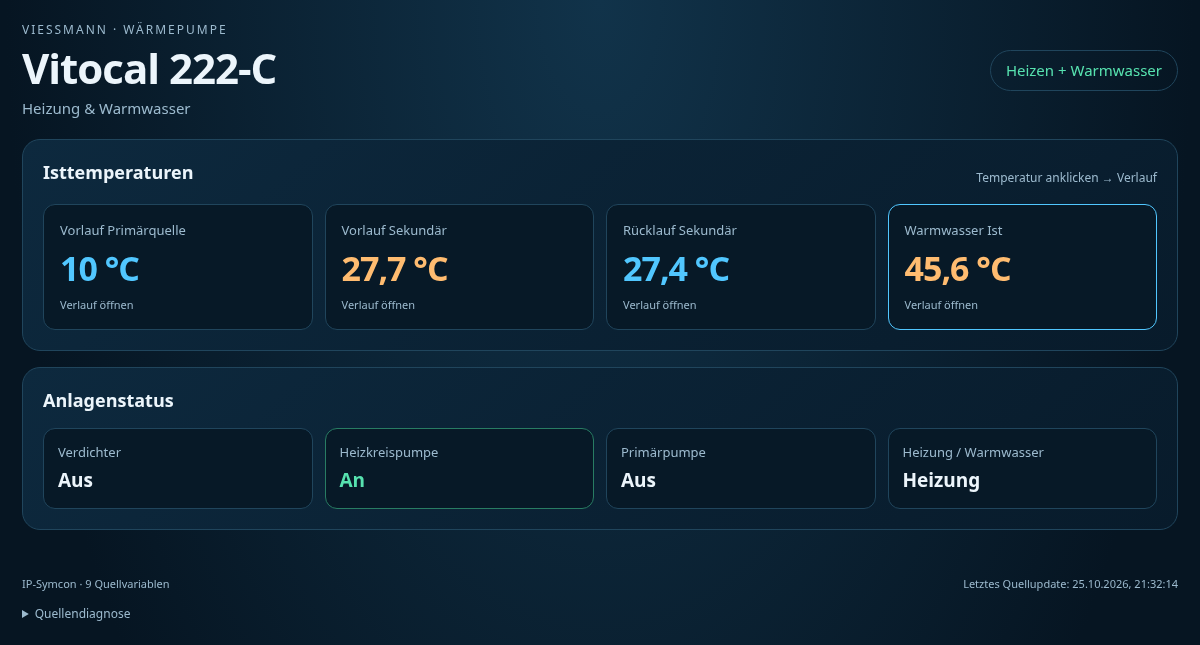
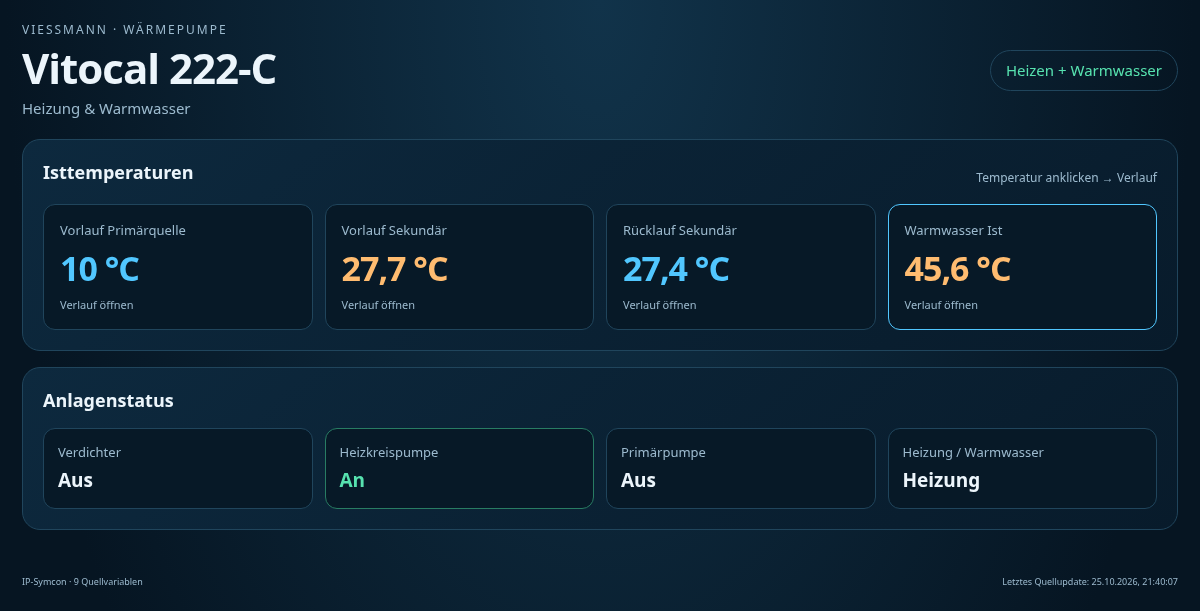
Remove tile source diagnostics and reduce footer text size

diff --git a/Vitocal222CTile/tile.html b/Vitocal222CTile/tile.html
@@ -1,7 +1,7 @@
 <!doctype html>
 <html lang="de"><head><meta charset="utf-8"><meta name="viewport" content="width=device-width, initial-scale=1"><title>Vitocal 222-C</title>
 <style>
-:root{color-scheme:dark;--bg:#061522;--panel:#0b2234;--line:#20455c;--text:#ecf5fb;--muted:#9cbace;--blue:#51c7ff;--warm:#ffbc70;--green:#57e2af}*{box-sizing:border-box}body{margin:0;min-height:100vh;background:radial-gradient(ellipse at top,#11334a,var(--bg) 70%);color:var(--text);font:15px/1.4 system-ui,sans-serif}main{max-width:1200px;padding:22px;margin:auto}header{display:flex;align-items:center;justify-content:space-between;gap:16px;margin-bottom:20px}h1{margin:0;font-size:clamp(25px,4vw,42px);letter-spacing:-1px}h2{font-size:18px;margin:0 0 15px}.eyebrow{font-size:12px;letter-spacing:2px;color:var(--muted)}.subtitle{color:var(--muted)}.badge{border:1px solid var(--line);border-radius:24px;padding:9px 15px;color:var(--green);max-width:45%;overflow-wrap:anywhere}.grid{display:grid;grid-template-columns:1fr 1fr;gap:16px}.panel{border:1px solid var(--line);background:linear-gradient(140deg,#0d293e,#081b2b);border-radius:18px;padding:20px;min-width:0}.wide{grid-column:1/-1}.reading{background:#071927;border:1px solid var(--line);border-radius:12px;padding:16px}.label{color:var(--muted);font-size:13px}.value{font-size:clamp(24px,4vw,38px);font-weight:600;letter-spacing:-1px;overflow-wrap:anywhere}.warm{color:var(--warm)}.cold{color:var(--blue)}.status-grid{display:grid;grid-template-columns:repeat(4,1fr);gap:12px}.status{background:#071927;border-radius:12px;padding:14px;border:1px solid var(--line)}.status strong{display:block;font-size:19px;margin-top:6px}.status[data-active="true"]{border-color:#287c63}.status[data-active="true"] strong{color:var(--green)}button{font:inherit;border-radius:9px;border:1px solid #376079;padding:10px 12px;background:#0d3047;color:var(--text);cursor:pointer;min-height:42px}button:disabled{opacity:.45;cursor:default}button:hover:enabled{border-color:var(--blue)}button:focus-visible,select:focus-visible,summary:focus-visible{outline:2px solid var(--blue);outline-offset:3px}.reason,.hint{font-size:12px;color:var(--muted);margin-top:10px}.feedback{font-size:13px;color:#ffd399;min-height:20px;margin:12px 0}footer{color:var(--muted);font-size:11px;margin-top:14px;display:flex;gap:10px;justify-content:space-between;flex-wrap:wrap}details{margin-top:15px;color:var(--muted);font-size:12px}summary{cursor:pointer}pre{white-space:pre-wrap;overflow-wrap:anywhere;max-height:220px;overflow:auto}.unavailable{color:#ffd399} @media(max-width:650px){main{padding:12px}.grid{grid-template-columns:1fr}.status-grid{grid-template-columns:1fr 1fr}.reading{padding:10px}.panel{padding:15px}.value{font-size:25px}.label{font-size:11px}.badge{font-size:12px}header{align-items:flex-start}}
+:root{color-scheme:dark;--bg:#061522;--panel:#0b2234;--line:#20455c;--text:#ecf5fb;--muted:#9cbace;--blue:#51c7ff;--warm:#ffbc70;--green:#57e2af}*{box-sizing:border-box}body{margin:0;min-height:100vh;background:radial-gradient(ellipse at top,#11334a,var(--bg) 70%);color:var(--text);font:15px/1.4 system-ui,sans-serif}main{max-width:1200px;padding:22px;margin:auto}header{display:flex;align-items:center;justify-content:space-between;gap:16px;margin-bottom:20px}h1{margin:0;font-size:clamp(25px,4vw,42px);letter-spacing:-1px}h2{font-size:18px;margin:0 0 15px}.eyebrow{font-size:12px;letter-spacing:2px;color:var(--muted)}.subtitle{color:var(--muted)}.badge{border:1px solid var(--line);border-radius:24px;padding:9px 15px;color:var(--green);max-width:45%;overflow-wrap:anywhere}.grid{display:grid;grid-template-columns:1fr 1fr;gap:16px}.panel{border:1px solid var(--line);background:linear-gradient(140deg,#0d293e,#081b2b);border-radius:18px;padding:20px;min-width:0}.wide{grid-column:1/-1}.reading{background:#071927;border:1px solid var(--line);border-radius:12px;padding:16px}.label{color:var(--muted);font-size:13px}.value{font-size:clamp(24px,4vw,38px);font-weight:600;letter-spacing:-1px;overflow-wrap:anywhere}.warm{color:var(--warm)}.cold{color:var(--blue)}.status-grid{display:grid;grid-template-columns:repeat(4,1fr);gap:12px}.status{background:#071927;border-radius:12px;padding:14px;border:1px solid var(--line)}.status strong{display:block;font-size:19px;margin-top:6px}.status[data-active="true"]{border-color:#287c63}.status[data-active="true"] strong{color:var(--green)}button{font:inherit;border-radius:9px;border:1px solid #376079;padding:10px 12px;background:#0d3047;color:var(--text);cursor:pointer;min-height:42px}button:disabled{opacity:.45;cursor:default}button:hover:enabled{border-color:var(--blue)}button:focus-visible,select:focus-visible,summary:focus-visible{outline:2px solid var(--blue);outline-offset:3px}.reason,.hint{font-size:12px;color:var(--muted);margin-top:10px}.feedback{font-size:13px;color:#ffd399;min-height:20px;margin:12px 0}footer{color:var(--muted);font-size:9px;margin-top:14px;display:flex;gap:10px;justify-content:space-between;flex-wrap:wrap}details{margin-top:15px;color:var(--muted);font-size:12px}summary{cursor:pointer}.unavailable{color:#ffd399} @media(max-width:650px){main{padding:12px}.grid{grid-template-columns:1fr}.status-grid{grid-template-columns:1fr 1fr}.reading{padding:10px}.panel{padding:15px}.value{font-size:25px}.label{font-size:11px}.badge{font-size:12px}header{align-items:flex-start}}
 
 .section-heading,.dialog-heading{display:flex;justify-content:space-between;gap:12px;align-items:center;flex-wrap:wrap}.section-heading h2{margin-bottom:0}.section-heading{margin-bottom:18px}.temperature-cards{display:grid;grid-template-columns:repeat(4,minmax(0,1fr));gap:12px}.reading{text-align:left;display:flex;flex-direction:column;gap:5px;min-width:0}.reading .value{font-size:clamp(22px,3vw,34px)}.chart-link{color:var(--muted);font-size:11px}dialog{color:var(--text);background:#0a1d2c;border:1px solid #36627a;border-radius:18px;padding:22px;width:min(950px,96vw);max-width:96vw;max-height:95dvh;overflow:auto}dialog::backdrop{background:#000a}.dialog-heading h2{font-size:24px;margin:4px 0 15px}select{font:inherit;background:#102e42;border:1px solid #376079;border-radius:8px;color:var(--text);padding:9px;margin-left:6px}.history-toolbar{display:flex;align-items:center;justify-content:space-between;flex-wrap:wrap;gap:12px;margin:12px 0}.history-navigation{display:flex;gap:7px;flex-wrap:wrap}.history-dates{font-size:13px;color:var(--muted);margin:12px 0}#historyState{font-size:13px;color:#ffd399;min-height:24px}#chartWrap{position:relative}#historyChart{display:block;width:100%;height:auto;min-height:160px;touch-action:pan-y}#chartTooltip{position:absolute;left:10px;top:4px;background:#183e55;padding:8px;border-radius:7px;pointer-events:none;font-size:12px}#historySummary{margin-top:8px}.table-scroll{max-height:240px;overflow:auto}table{width:100%;border-collapse:collapse;font-size:12px}td,th{padding:6px 10px;text-align:left;border-bottom:1px solid var(--line)}#historyChart text{fill:#9fbfd3;font:12px system-ui}.chart-grid{stroke:#244257;stroke-width:1}.chart-line{stroke:#ffbc70;stroke-width:2;fill:none;vector-effect:non-scaling-stroke}.chart-point{fill:#ffbc70}
 @media(max-width:650px){.temperature-cards{grid-template-columns:1fr 1fr;gap:8px}.reading .value{font-size:26px}.dialog-heading h2{font-size:20px}dialog{padding:14px}.history-navigation button{padding:8px}.section-heading .hint{margin:0}}
@@ -17,7 +17,7 @@
 </section>
 <section class="panel wide"><h2>Anlagenstatus</h2><div id="statuses" class="status-grid"></div></section>
 </div>
-<div id="feedback" class="feedback" role="status" aria-live="polite"></div><footer><span id="sourceState"></span><span id="updated"></span></footer><details><summary>Quellendiagnose</summary><pre id="diagnostics"></pre></details>
+<div id="feedback" class="feedback" role="status" aria-live="polite"></div><footer><span id="sourceState"></span><span id="updated"></span></footer>
 </main>
 <dialog id="historyDialog" aria-labelledby="historyTitle"><div class="dialog-heading"><div><div class="eyebrow">TEMPERATURVERLAUF</div><h2 id="historyTitle">Verlauf</h2></div><button id="closeHistory" aria-label="Verlauf schließen">✕</button></div>
 <div class="history-toolbar"><label>Zeitraum <select id="historyRange"><option value="3600">1 Stunde</option><option value="21600">6 Stunden</option><option value="86400" selected>24 Stunden</option><option value="604800">7 Tage</option><option value="2592000">30 Tage</option></select></label><div class="history-navigation"><button id="historyPrev" aria-label="Einen Zeitraum zurück">← Zurück</button><button id="historyNow">Jetzt</button><button id="historyNext" aria-label="Einen Zeitraum vor">Vor →</button></div></div>
@@ -47,7 +47,6 @@ function render(data){
  $('sourceState').classList.toggle('unavailable',!!data.missing.length);
  const stamps=Object.values(data.values).map(v=>v.updated).filter(v=>v>0);
  $('updated').textContent=stamps.length?'Letztes Quellupdate: '+new Date(Math.max(...stamps)*1000).toLocaleString('de-DE'):'Noch kein Quellzeitstempel';
- $('diagnostics').textContent=JSON.stringify({values:data.values,missing:data.missing,readOnly:true},null,2);
 }
 function handleMessage(message){
  try{const data=typeof message==='string'?JSON.parse(message):message;if(data.kind==='history')receiveHistory(data);else render(data);}

diff --git a/README.md b/README.md
@@ -8,7 +8,7 @@ Modul für die **Kachelvisualisierung ab IP-Symcon 7.1**. Zeigt vier gemessene T
 
 In **Module Control** das Repository `https://github.com/somm86/Viessmann-Vitocal-222` mit Branch `main` hinzufügen oder aktualisieren. Instanz **Vitocal 222-C Kachel** erstellen bzw. die vorhandene Instanz öffnen, **Übernehmen** drücken und die Kachel neu öffnen. Bibliotheks- und Modul-GUIDs bleiben beim Update gleich; keine neue Instanz erforderlich.
 
-Alternativ das mit `python3 tests/build.py` erzeugte `Vitocal222C-Kachel-1.5.zip` entpacken und den enthaltenen Ordner `Vitocal222C_Kachel` vollständig nach `<Symcon-Datenverzeichnis>/modules/` auf dem Symcon-Server kopieren. Direkt darin muss `library.json` liegen. Symcon-Dienst neu starten. Nicht gleichzeitig per Module Control und lokal installieren.
+Alternativ das mit `python3 tests/build.py` erzeugte `Vitocal222C-Kachel-1.6.zip` entpacken und den enthaltenen Ordner `Vitocal222C_Kachel` vollständig nach `<Symcon-Datenverzeichnis>/modules/` auf dem Symcon-Server kopieren. Direkt darin muss `library.json` liegen. Symcon-Dienst neu starten. Nicht gleichzeitig per Module Control und lokal installieren.
 
 Die Instanz zur Kachelvisualisierung hinzufügen bzw. verlinken. Die Darstellung passt sich der Kachelbreite an; kleine Kacheln können vertikal gescrollt werden. Die Geräteintegration muss die vorhandenen Variablen aktualisieren; die Kachel verbindet sich nicht selbst mit der Wärmepumpe.
 
@@ -57,7 +57,7 @@ Die Datenübertragung läuft über die HTML-SDK-Brücke und den Visualisierungsn
 
 Variable `53049` wird mit ihrem formatierten Quellwert oben in der Statusanzeige dargestellt. Es gibt keine Betriebsartauswahl und keine Schaltaktionen mehr. Eine Profil-Auswahlliste oder Variablenaktion ist für die Anzeige nicht erforderlich. Selbst direkte Aufrufe der ehemaligen Aktionen `ChangeMode`, `SetRoomTarget` und `SetWaterTarget` werden serverseitig abgewiesen. Die HTML-SDK-Aktion wird ausschließlich für lesende Archivabfragen verwendet.
 
-**Quellendiagnose** zeigt die gelesenen Werte und den Schreibschutz. Die Instanz bietet zusätzlich **Quellen-Diagnose anzeigen** mit den konfigurierten Quell-IDs und dem Archiv.
+Die Diagnose ist ausschließlich in der Instanz über **Quellen-Diagnose anzeigen** mit den konfigurierten Quell-IDs und dem Archiv verfügbar. In der Kachel wird keine Quellendiagnose eingeblendet. Die Fußzeile mit Quellenstatus und letztem Quellupdate verwendet 9 px Schriftgröße.
 
 ## Entwicklung und Prüfungen
 

diff --git a/docs/VALIDATION.md b/docs/VALIDATION.md
@@ -1,4 +1,4 @@
-# Prüfbericht · Version 1.5
+# Prüfbericht · Version 1.6
 
 Lokal geprüft mit PHP 8.4.24, offiziellen SymconStubs (Commit `31f2e0478eb3763236fcf44ea4144271fdeddfd5`), Python 3, Playwright 1.62.0 und System-Chromium. PHP wurde aus anhand signierter Debian-Indizes geprüften Paketen lokal unter `/tmp/php-local` extrahiert. Die Testlaufzeit ist keine Produktivabhängigkeit.
 
@@ -17,6 +17,8 @@ Lokal geprüft mit PHP 8.4.24, offiziellen SymconStubs (Commit `31f2e0478eb37632
 Keine echte Symcon-Instanz oder Wärmepumpe ist mit dieser Entwicklungsumgebung verbunden. Die Modultests nutzen offizielle Stubs und synthetische Archivdaten, der Browsertest eine simulierte HTML-SDK-Brücke. Die Screenshots enthalten synthetische Beispielwerte; der Verlaufs-Screenshot zeigt eine künstliche Kurve und keine Aufzeichnung der Anlage.
 
 Die vorhandenen Live-Quellwerte und Archivdaten müssen nach Installation in deiner Symcon-Instanz verglichen werden. Für Historie ist aktive Standardwert-Archivierung der vier Isttemperaturen erforderlich. Historie, Profilwerte, Aktionen und tatsächliche Geräteantworten deiner Anlage konnten hier nicht geprüft werden. Die Betriebsart wird ausschließlich als formatierter Quellwert angezeigt; alle früheren Schreibaktionen werden abgewiesen.
+
+Die Quellendiagnose ist aus der Kachel entfernt; die Fußzeile für Quellenstatus und Update-Zeitpunkt verwendet 9 px. Die bestehende Diagnose in der Instanz bleibt verfügbar.
 
 Die Kachel enthält kein Anlagenschema und keine Schema-Exporte mehr. Die Browserprüfung kontrolliert, dass ausschließlich der Verlaufsgraph als SVG verbleibt und die vier Temperaturkarten und Statusfelder weiterhin aktualisiert werden.
 

diff --git a/CHANGELOG.md b/CHANGELOG.md
@@ -1,5 +1,10 @@
 # Änderungen
 
+## 1.6
+
+- Quellendiagnose aus der Kachel entfernt; Instanzdiagnose bleibt verfügbar.
+- Fußzeile mit Quellenstatus und Update-Zeitpunkt auf 9 px verkleinert.
+
 ## 1.5
 
 - Anlagenschema, zugehörige Symbole und separate Schema-Dateien vollständig entfernt.
